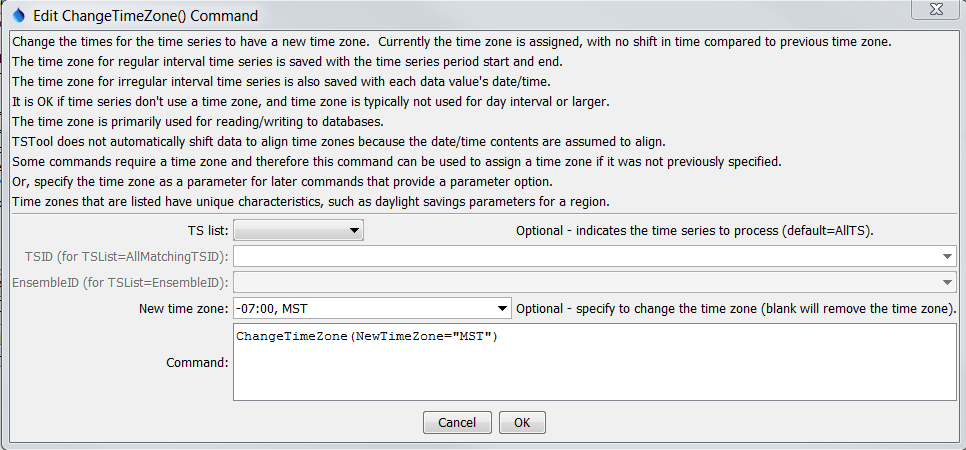
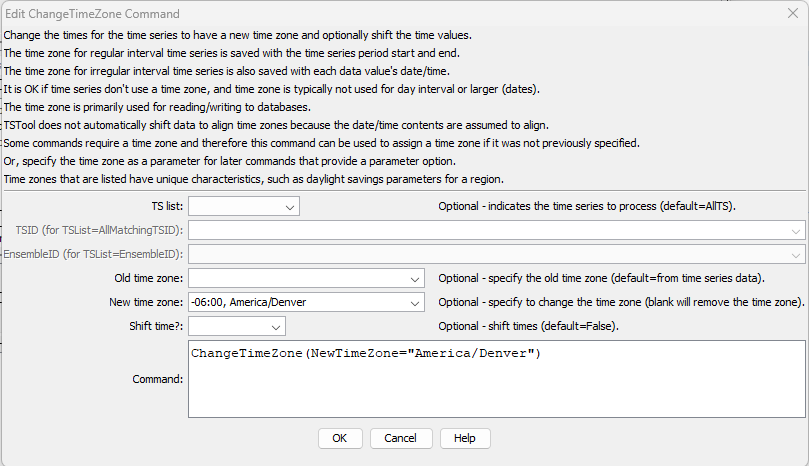
Update for 14.8.6 release, ChangeTimeZone updates, issue #137

diff --git a/mkdocs-project/docs/command-ref/ChangeTimeZone/ChangeTimeZone.md b/mkdocs-project/docs/command-ref/ChangeTimeZone/ChangeTimeZone.md
@@ -12,27 +12,50 @@
 ## Overview ##
 
 The `ChangeTimeZone` command changes the time zone for date/times associated with the time series.
-This may be appropriate if the original time series did not use a time zone
-but a time zone is required by later commands, such as writing to a file or database.
-Currently this command simply resets the time zone that is saved with
-date/times used in the time series, but does not modify the actual date/time values.
-For regular-interval time series, date/times are used with period start and end.
-For irregular time series, date/times are also associated with each data value.
-Time zone should typically be used only with hourly and smaller time interval.
+Time zone should typically be used only with hourly and smaller time interval and
+therefore this command should typically only be used for regular interval time series with interval less than a day (hour or less)
+and irregular interval time series with date/time precision less than a day (hour or less).
+The two main use cases for the command are:
 
-Specification of the time zone is important, in particular with respect to daylight savings time,
+1.  **Set the time zone but do not shift times:**
+    This is appropriate if the original time series did not use a time zone
+    but a time zone is required by later commands, such as writing to a file or database.
+    In some cases it is appropriate to add a time zone and in other cases remove the time zone:
+    1.  The time zone can be set by specifying `NewTimeZone`.
+    2.  The time zone can be removed by not specifying `OldTimeZone`.
+2.  **Set the time zone AND shift times:**
+    Set the datet/times as in case 1 and also shift the date/time values to the new time zone,
+    using the offset between the old and new time zones.
+    For example, hour `0` for time zone `America/Denver` would be shifted to hour `7 GMT` in
+    standard time part of the year and hour `6 GMT` in the daylight saving time of the year.
+
+Time series date/times that are changed include:
+
+*   Time series start and end (and original start and end).
+*   For irregular time series, the date/times associated with data values.
+
+Specification of the time zone is important for some workflows,
+in particular with respect to daylight savings time,
 in order to retain data integrity and properly represent the time associated with data.
 For example, the time zone `America/Denver` indicates local time with
 standard and daylight savings depending on the time of the year.
-For America/Denver, the time zone is equivalent to `-07:00` during the “standard” part of the year,
+In this case, the time zone implies handling of daylight savings.
+
+The `America/Denver` time zone is equivalent to `-07:00` during the “standard” part of the year,
 and `-06:00` during the daylight savings part of the year,
 meaning that local times are offset from GMT time zone by the number of indicated hours.
+Consequently, using hour offsets explicitly indicates when daylight savings is in effect.
+
 Recording original data using local time means that in the spring there will
-be a gap of one hour because the time is jumped forward by an hour,
-and in the fall an observation is lost because time is jumped back by an hour.
+be a gap of one hour because the time is jumped forward by an hour (e.g., at 02:00 AM the clock changes to 03:00 AM),
+and in the fall an observation is lost because time is jumped back by an hour
+(e.g., at 02:00 AM the clock changes to 01:00 AM and therefore an hour is overwritten).
 However, if the original data are recorded using a standard time zone, then no data loss occurs.
-Persistent data storage (e.g., database) should generally use standard time (or GMT),
-with local time zone used for display.
+Persistent data storage (e.g., database) might use standard time (or GMT),
+with local time zone used for display.  See:
+
+*   [Daylight saving time in the United States in Wikipedia](https://en.wikipedia.org/wiki/Daylight_saving_time_in_the_United_States)
+*   [History of time in the United States](https://en.wikipedia.org/wiki/History_of_time_in_the_United_States) - table listing daylight saving dates for all years
 
 ## Command Editor ##
 
@@ -66,11 +89,50 @@ Command Parameters
 |`TSList`|Indicates the list of time series to be processed, one of:<br><ul><li>`AllMatchingTSID` – all time series that match the TSID (single TSID or TSID with wildcards) will be processed.</li><li>`AllTS` – all time series before the command.</li><li>`EnsembleID` – all time series in the ensemble will be processed (see the EnsembleID parameter).</li><li>`FirstMatchingTSID` – the first time series that matches the TSID (single TSID or TSID with wildcards) will be processed.</li><li>`LastMatchingTSID` – the last time series that matches the TSID (single TSID or TSID with wildcards) will be processed.</li><li>`SelectedTS` – the time series are those selected with the [`SelectTimeSeries`](../SelectTimeSeries/SelectTimeSeries.md) command.</li></ul> | `AllTS` |
 |`TSID`|The time series identifier or alias for the time series to be processed, using the `*` wildcard character to match multiple time series.  Can be specified using `${Property}`.|Required if `TSList=*TSID`|
 |`EnsembleID`|The ensemble to be processed, if processing an ensemble. Can be specified using `${Property}`.|Required if `TSList=*EnsembleID`|
-|`NewTimeZone`|The new time zone.  Can be specified with a processor `${Property}`.  Time zones should agree with the Java `java.time.ZoneId` class.  Possible values are listed on the following site:  [https://garygregory.wordpress.com/2013/06/18/what-are-the-java-timezone-ids/](https://garygregory.wordpress.com/2013/06/18/what-are-the-java-timezone-ids/)|If blank, the time zone will be set to blank.|
+|`OldTimeZone`|The old time zone, which will be used if the time series date/time does not have a time zone.  Can be specified with a processor `${Property}`.  Time zones should agree with the Java [`java.time.ZoneId`](https://docs.oracle.com/javase/8/docs/api/java/time/ZoneId.html).  Abbreviations like `MST` should be avoided and more explicit zone (e.g., `America/Denver`) should be used to avoid ambiguity.  Possible values are listed on the following site:  [https://garygregory.wordpress.com/2013/06/18/what-are-the-java-timezone-ids/](https://garygregory.wordpress.com/2013/06/18/what-are-the-java-timezone-ids/)| Determine from time series date/times.|
+|`NewTimeZone`|The new time zone.  Can be specified with a processor `${Property}`.  See the `OldTimeZone` description for more information. |If blank, the time zone will be set to blank.|
+|`ShiftTime`| Whether to shift the time numerical values in addition to setting the time zone, `False` or `True`. | `False` |
 
 ## Examples ##
 
 See the [automated tests](https://github.com/OpenCDSS/cdss-app-tstool-test/tree/master/test/commands/ChangeTimeZone).
+
+The following example shows the time series before (`America/Denver`) and after (`GMT`) 
+for the spring daylight saving change, with the following observations:
+
+*   `2000-04-02 01 America/Denver` (and earlier) has a 7 hour offset to `2000-04-02 08 GMT`
+*   `2000-04-02 02 America/Denver` has a 6 hour offset to `2000-04-02 08 GMT`, and therefore overwrites the previous value
+*   `2000-04-02 03 America/Denver` (and later) has a 6 hour offset to `2000-04-02 09 GMT`
+
+Note that in this example, the value for `2000-04-02 02 America/Denver` might be missing in source data
+because the "spring forward" would have recorded the value at hour `03`.
+An inverse effect will be seen converting from `GMT` to `America/Denver`.
+
+**<p style="text-align: center;">
+![Example of spring daylight saving change](DaylightSaving-SpringForward.png)
+</p>**
+
+**<p style="text-align: center;">
+Example of "Spring Forward" Daylight Saving Change (<a href="../DaylightSaving-SpringForward.png">see full-size image</a>)
+</p>**
+
+Similarly, the following example shows the time series before (`America/Denver`) and after (`GMT`) 
+for the fall daylight saving change, with the following observations:
+
+*   `2000-10-29 01 America/Denver` (and earlier) has a 6 hour offset to `2000-10-29 07 GMT`
+*   `2000-10-29 02 America/Denver` (and late) has a 7 hour offset to `2000-10-29 09 GMT` - results in a gap at hour `08 GMT`
+
+Note that in this example, the value for `2000-10-29 02 America/Denver` might be recorded twice,
+with the first hour lost after being overwritten.
+An inverse effect would be seen converting from `GMT` to `America/Denver`.
+
+**<p style="text-align: center;">
+![Example of fall daylight saving change](DaylightSaving-FallBack.png)
+</p>**
+
+**<p style="text-align: center;">
+Example of "Fall Back" Daylight Saving Change (<a href="../DaylightSaving-FallBack.png">see full-size image</a>)
+</p>**
 
 ## Troubleshooting ##
 

diff --git a/mkdocs-project/docs/appendix-release-notes/release-notes-14.md b/mkdocs-project/docs/appendix-release-notes/release-notes-14.md
@@ -5,6 +5,7 @@ See also the [GitHub repository issues](https://github.com/OpenCDSS/cdss-app-tst
 for outstanding issues and enhancement requests.
 Issues may also be included in other repositories that are TSTool components.
 
+*   [Changes in Version 14.8.6](#changes-in-version-1486)
 *   [Changes in Version 14.8.5](#changes-in-version-1485)
 *   [Changes in Version 14.8.4](#changes-in-version-1484)
 *   [Changes in Version 14.8.3](#changes-in-version-1483)
@@ -35,6 +36,24 @@ Issues may also be included in other repositories that are TSTool components.
 *   [Release notes for all versions](release-notes.md)
 
 ----------
+
+## Changes in Version 14.8.6 ##
+
+**Maintenance release to improve time zone handling.** 
+
+*   ![change](change.png) [14.8.6] Phase out some support for old-style time zones (e.g., `MST`, `MDT`)
+    due to ambiguity with current conventions that are more granular (e.g., use `America/Denver` instead, which includes daylight saving).
+    Some command files may need to be updated.
+*   ![change](change.png) [14.8.6] The time series table view has been updated to improve handling
+    time series with different time zones:
+    +   the date/time column will not show time zone
+    +   the time zone will be shown in the time series value column heading
+    +   column tool tips provide additional details about the time zone and other time series metadata
+*   ![change](change.png) [14.8.6] Update the [`ChangeTimeZone`](../command-ref/ChangeTimeZone/ChangeTimeZone.md) command:
+    +   Add the `ShiftTime` parameter to control whether the date/times in the time series are shifted using
+        the difference between the old and new time zones.
+    +   Add the `OldTimeZone` parameter to specify the old time series for the time series,
+        for cases where the time series being modified does not specify the time zone.
 
 ## Changes in Version 14.8.5 ##
 

diff --git a/mkdocs-project/docs/appendix-release-notes/release-notes.md b/mkdocs-project/docs/appendix-release-notes/release-notes.md
@@ -34,6 +34,7 @@ TSTool Version History Summary (most current at top)
 
 |**TSTool Version(s)**&nbsp;&nbsp;&nbsp;&nbsp;&nbsp;&nbsp;&nbsp;&nbsp;&nbsp;&nbsp;&nbsp;&nbsp;&nbsp;&nbsp;&nbsp;&nbsp;&nbsp;&nbsp;&nbsp;&nbsp;|**Summary of Major Changes in Version**|**Release Date**|
 |--|--|--|
+|[14.8.6](release-notes-14.md)|Maintenance release to improve time zone handling. | 2023-07-24 |
 |[14.8.5](release-notes-14.md)|Maintenance release to enhance plugin integration. | 2023-07-14 |
 |[14.8.4](release-notes-14.md)|Maintenance release to fix issues when processing text files. | 2023-07-11 |
 |[14.8.3](release-notes-14.md)|Maintenance release to enable raster graph for hour and minute interval time series. | 2023-06-05 |

diff --git a/mkdocs-project/docs/index.md b/mkdocs-project/docs/index.md
@@ -12,7 +12,7 @@ This documentation is generally referred to as the **"User Documentation"** in c
 *   [About the Open Water Foundation](#about-the-open-water-foundation)
 *   [License](#license)
 *   [Source Repository on GitHub](#source-repository-on-github)
-*   [Release Notes](appendix-release-notes/release-notes-14.md) - **this documentation has been updated for TSTool version 14.8.5**
+*   [Release Notes](appendix-release-notes/release-notes-14.md) - **this documentation has been updated for TSTool version 14.8.6**
 
 ----------------
 
